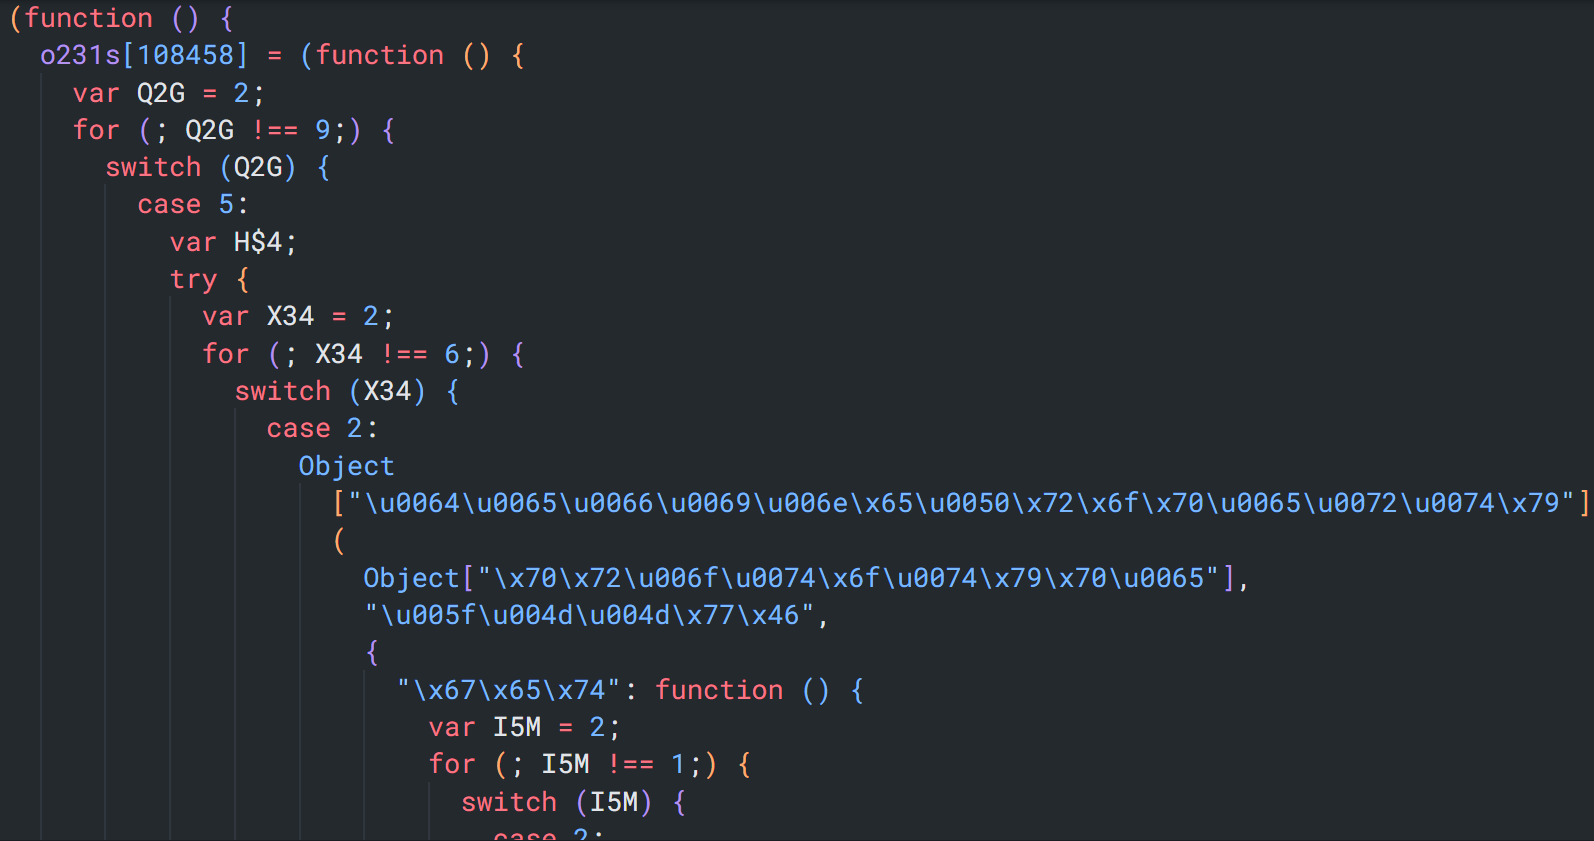
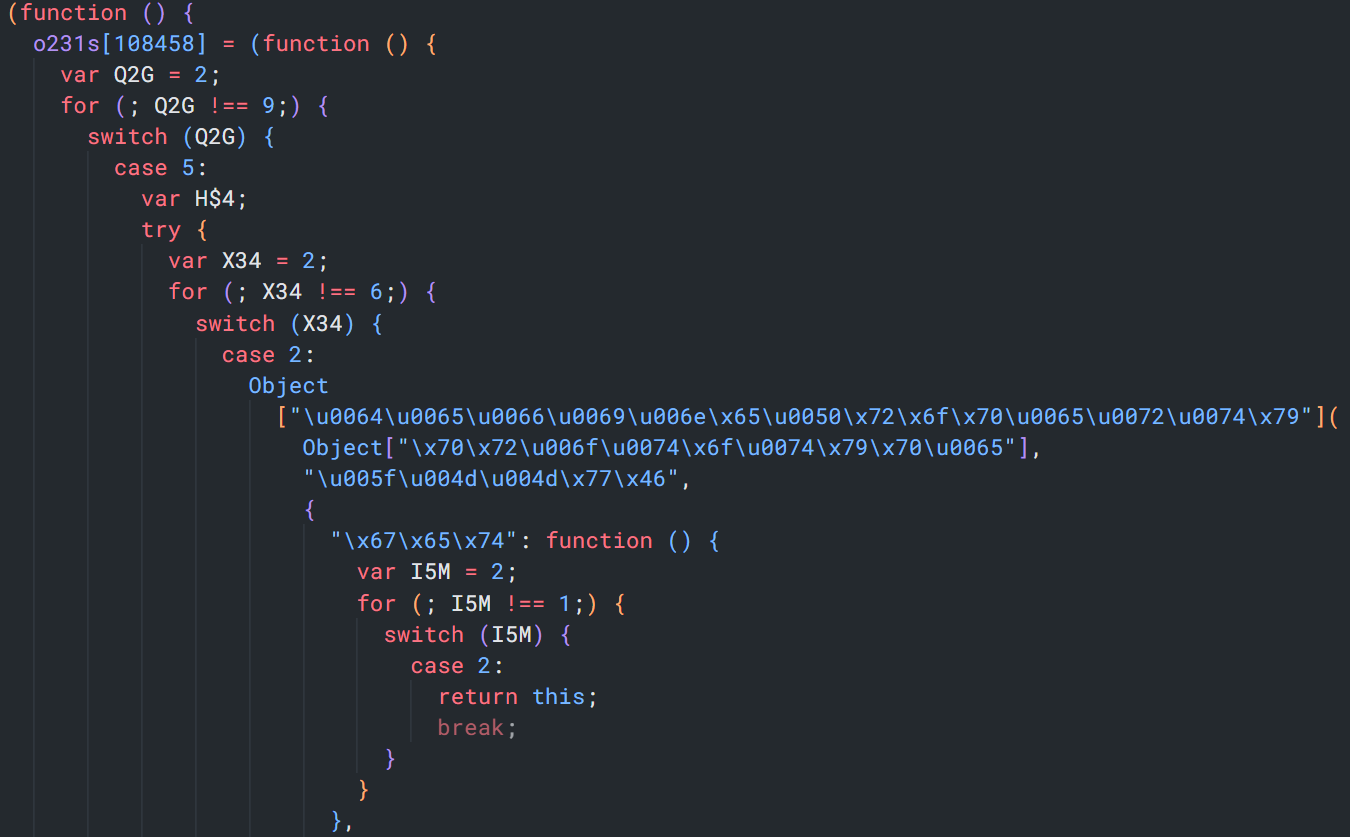
some metadata scheisse

Changed region(s): [[0.0, 0.0, 1.0, 1.0], [0.1867, 0.0311, 0.3111, 0.0932]]

diff --git a/app/posts/[...slug]/page.tsx b/app/posts/[...slug]/page.tsx
@@ -41,7 +41,7 @@ export async function generateMetadata({
     description: post.description,
     keywords: post.keywords ? post.keywords : undefined,
     openGraph: {
-      images: ["/og.png"],
+      images: ["https://nerodesu017.github.io/og.png"],
       type: "article",
       siteName: "Nerodesu017",
       description: post.description
@@ -49,7 +49,7 @@ export async function generateMetadata({
     twitter: {
       card: "summary_large_image",
       title: post.title,
-      images: ["/og.png"],
+      images: ["https://nerodesu017.github.io/og.png"],
       description: post.description,
     }
   };

diff --git a/app/[...slug]/page.tsx b/app/[...slug]/page.tsx
@@ -35,7 +35,7 @@ export async function generateMetadata({
     description: page.description,
     keywords: page.keywords ? page.keywords : undefined,
     openGraph: {
-      images: ["/og.png"],
+      images: ["https://nerodesu017.github.io/og.png"],
       type: "article",
       siteName: "Nerodesu017",
       description: page.description
@@ -43,7 +43,7 @@ export async function generateMetadata({
     twitter: {
       card: "summary_large_image",
       title: page.title,
-      images: ["/og.png"],
+      images: ["https://nerodesu017.github.io/og.png"],
       description: page.description,
     }
   }

diff --git a/app/layout.tsx b/app/layout.tsx
@@ -17,7 +17,7 @@ export const metadata: Metadata = {
   description: description,
   keywords: ["deobfuscation", "reverse engineering", "antibot", "antibots", "programming"],
   openGraph: {
-    images: ["/og.png"],
+    images: ["https://nerodesu017.github.io/og.png"],
     type: "article",
     siteName: "Nerodesu017",
     description: description
@@ -25,7 +25,7 @@ export const metadata: Metadata = {
   twitter: {
     card: "summary_large_image",
     title: title,
-    images: ["/og.png"],
+    images: ["https://nerodesu017.github.io/og.png"],
     description: description,
   }
   };
